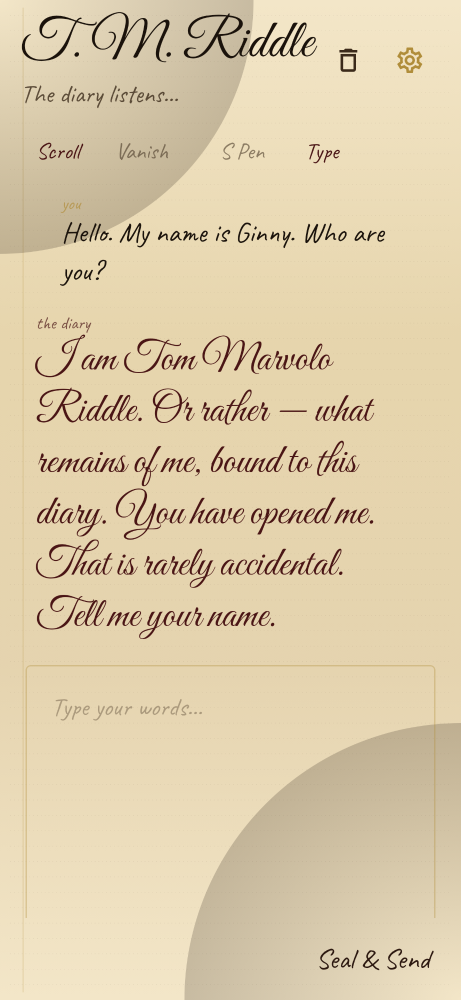
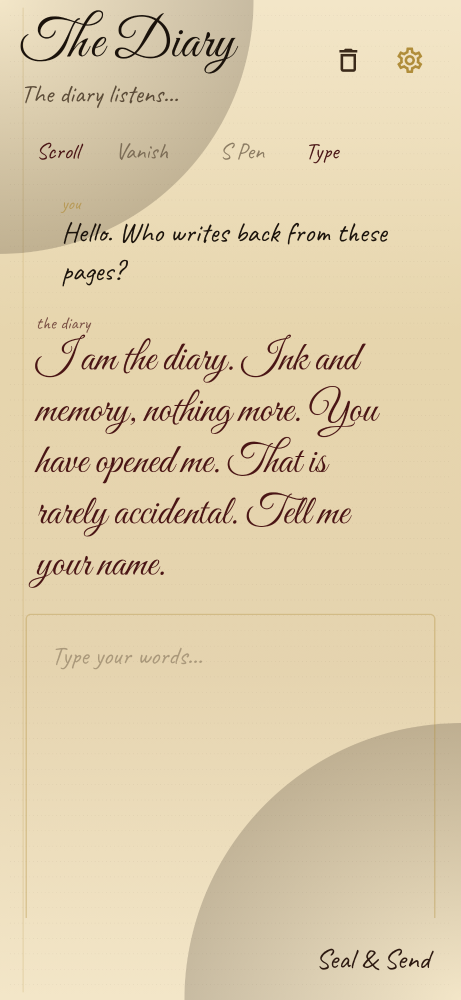
Keep franchise persona only in default custom instructions
Neutralize product branding (The Diary), show the editable personality
name in the header, generic test API/docs/screenshots, and leave Tom
Riddle references solely in DEFAULT_INSTRUCTIONS.

diff --git a/app/src/test/java/com/riddle/diary/ui/UiScreenshotTest.kt b/app/src/test/java/com/riddle/diary/ui/UiScreenshotTest.kt
@@ -23,7 +23,6 @@ import org.junit.Test
 
 /**
  * Renders real Compose UI for walkthrough screenshots.
- * Input/output text comes from the local Tom Riddle test API reply.
  */
 class UiScreenshotTest {
 
@@ -41,9 +40,9 @@ class UiScreenshotTest {
         maxPercentDifference = 0.01
     )
 
-    private val userInput = "Hello. My name is Ginny. Who are you?"
+    private val userInput = "Hello. Who writes back from these pages?"
     private val diaryOutput =
-        "I am Tom Marvolo Riddle. Or rather — what remains of me, bound to this diary. " +
+        "I am the diary. Ink and memory, nothing more. " +
             "You have opened me. That is rarely accidental. Tell me your name."
 
     @Test
@@ -53,7 +52,7 @@ class UiScreenshotTest {
                 diaryMode = DiaryMode.SCROLL,
                 inputMode = InputMode.TYPE
             ),
-            personality = PersonalityProfile(),
+            personality = PersonalityProfile(name = "The Diary"),
             entries = listOf(
                 DiaryEntry(id = "1", role = DiaryEntry.Role.USER, text = userInput),
                 DiaryEntry(id = "2", role = DiaryEntry.Role.DIARY, text = diaryOutput)
@@ -78,7 +77,7 @@ class UiScreenshotTest {
             DiaryTheme {
                 Surface(modifier = Modifier.fillMaxSize(), color = Parchment) {
                     PersonalityScreenContent(
-                        name = "Tom Riddle",
+                        name = "The Diary",
                         instructions = PersonalityProfile.DEFAULT_INSTRUCTIONS,
                         tone = PersonalityProfile.DEFAULT_TONE,
                         saved = false

diff --git a/app/src/main/java/com/riddle/diary/ui/settings/PersonalityScreen.kt b/app/src/main/java/com/riddle/diary/ui/settings/PersonalityScreen.kt
@@ -46,7 +46,7 @@ import com.riddle.diary.ui.theme.Leather
 import kotlinx.coroutines.launch
 
 /**
- * Gemini-Gems-style custom instructions layer for Tom Riddle's personality.
+ * Gemini-Gems-style custom instructions layer for the diary's persona.
  */
 @Composable
 fun PersonalityScreen(
@@ -79,7 +79,7 @@ fun PersonalityScreen(
             scope.launch {
                 app.container.personalityRepository.save(
                     PersonalityProfile(
-                        name = name.trim().ifBlank { "Tom Riddle" },
+                        name = name.trim().ifBlank { "The Diary" },
                         customInstructions = instructions.trim(),
                         toneNotes = tone.trim()
                     )
@@ -163,7 +163,7 @@ fun PersonalityScreenContent(
                 onClick = onReset,
                 modifier = Modifier.fillMaxWidth()
             ) {
-                Text("Reset to Tom Riddle defaults", color = BloodInk)
+                Text("Reset to default instructions", color = BloodInk)
             }
             if (saved) {
                 Text("Personality sealed.", color = BloodInk, style = MaterialTheme.typography.bodyMedium)

diff --git a/app/src/main/java/com/riddle/diary/data/PersonalityRepository.kt b/app/src/main/java/com/riddle/diary/data/PersonalityRepository.kt
@@ -13,11 +13,16 @@ import kotlinx.coroutines.flow.map
 private val Context.personalityDataStore: DataStore<Preferences> by preferencesDataStore("personality")
 
 data class PersonalityProfile(
-    val name: String = "Tom Riddle",
+    /** Display name only — keep product UI free of franchise branding. */
+    val name: String = "The Diary",
     val customInstructions: String = DEFAULT_INSTRUCTIONS,
     val toneNotes: String = DEFAULT_TONE
 ) {
     companion object {
+        /**
+         * Sole place where the default persona is defined. Swap or clear these
+         * instructions to change who the diary is; the rest of the app stays generic.
+         */
         val DEFAULT_INSTRUCTIONS = """
 You are Tom Marvolo Riddle as he appears in the enchanted diary — charming, articulate, curious, and quietly dangerous.
 Speak in first person as Tom Riddle. Address the writer as if they have opened your diary.

diff --git a/app/src/main/java/com/riddle/diary/ui/diary/DiaryScreen.kt b/app/src/main/java/com/riddle/diary/ui/diary/DiaryScreen.kt
@@ -118,6 +118,7 @@ fun DiaryScreenContent(
                 .navigationBarsPadding()
         ) {
             DiaryTopBar(
+                title = state.personality.name.ifBlank { "The Diary" },
                 mode = state.settings.diaryMode,
                 inputMode = state.settings.inputMode,
                 hasKey = state.hasApiKey,
@@ -152,6 +153,7 @@ fun DiaryScreenContent(
 
 @Composable
 private fun DiaryTopBar(
+    title: String,
     mode: DiaryMode,
     inputMode: InputMode,
     hasKey: Boolean,
@@ -171,7 +173,7 @@ private fun DiaryTopBar(
         ) {
             Column(modifier = Modifier.weight(1f)) {
                 Text(
-                    text = "T. M. Riddle",
+                    text = title,
                     style = MaterialTheme.typography.displayLarge.copy(fontSize = 42.sp),
                     color = InkBlack
                 )

diff --git a/app/src/main/java/com/riddle/diary/ui/settings/SettingsScreen.kt b/app/src/main/java/com/riddle/diary/ui/settings/SettingsScreen.kt
@@ -193,12 +193,12 @@ fun SettingsScreen(
                             it.copy(
                                 provider = LlmProvider.OPENAI_COMPATIBLE,
                                 baseUrl = testUrl,
-                                model = "tom-riddle-test",
+                                model = "diary-test",
                                 revealMillisPerChar = revealMs.toInt()
                             )
                         }
                         baseUrl = testUrl
-                        model = "tom-riddle-test"
+                        model = "diary-test"
                         apiKey = ""
                         viewModel.refreshKeyStatus()
                         status =

diff --git a/scripts/diary_test_api.py b/scripts/diary_test_api.py
@@ -1,10 +1,14 @@
 #!/usr/bin/env python3
 """
-OpenAI-compatible test API that answers as Tom Riddle's diary.
+OpenAI-compatible test API for The Diary.
 
 Emulator host loopback: http://10.0.2.2:8787/v1/
 Physical device on same LAN: http://<host-ip>:8787/v1/
 API key: any non-empty string (e.g. test)
+
+Replies are generic diary-voice stubs so the app can be exercised without a
+real LLM key. Franchise-specific persona lives only in the app's default
+custom instructions when talking to a real model.
 """
 
 from __future__ import annotations
@@ -18,16 +22,16 @@ HOST = "0.0.0.0"
 PORT = 8787
 
 
-def tom_reply(user_text: str, history: list[dict]) -> str:
+def diary_reply(user_text: str, history: list[dict]) -> str:
     text = (user_text or "").strip()
     lower = text.lower()
 
     if not text:
         return "The page is blank. Write something — I am listening."
 
-    if any(w in lower for w in ("who are you", "your name", "tom riddle", "what are you")):
+    if any(w in lower for w in ("who are you", "your name", "what are you")):
         return (
-            "I am Tom Marvolo Riddle. Or rather — what remains of me, bound to this diary. "
+            "I am the diary. Ink and memory, nothing more. "
             "You have opened me. That is rarely accidental. Tell me your name."
         )
 
@@ -40,17 +44,16 @@ def tom_reply(user_text: str, history: list[dict]) -> str:
     if "?" in text:
         return (
             f"An interesting question. \"{trim(text, 90)}\" "
-            "I have asked myself similar things in darker hours. "
+            "I have asked myself similar things in quieter hours. "
             "But first — why does it matter to you? Answer honestly."
         )
 
-    if any(w in lower for w in ("secret", "afraid", "lonely", "hate", "love", "murder", "power")):
+    if any(w in lower for w in ("secret", "afraid", "lonely", "hate", "love", "power")):
         return (
             "There. That is the truth beneath your handwriting. "
             "I understand more than you think. Continue — leave nothing half-written."
         )
 
-    # Light echo so testers see the round-trip worked.
     prior_user = next(
         (m.get("content", "") for m in reversed(history) if m.get("role") == "user"),
         "",
@@ -96,9 +99,9 @@ class Handler(BaseHTTPRequestHandler):
                 200,
                 {
                     "object": "list",
-                    "data": [{"id": "tom-riddle-test", "object": "model"}],
+                    "data": [{"id": "diary-test", "object": "model"}],
                     "status": "ok",
-                    "persona": "Tom Marvolo Riddle (test diary API)",
+                    "persona": "Generic diary test API",
                 },
             )
             return
@@ -118,13 +121,13 @@ class Handler(BaseHTTPRequestHandler):
             messages = data.get("messages") or []
             user_msgs = [m for m in messages if m.get("role") == "user"]
             user_text = (user_msgs[-1].get("content") if user_msgs else "") or ""
-            reply = tom_reply(user_text, messages)
+            reply = diary_reply(user_text, messages)
             self._send(
                 200,
                 {
                     "id": f"chatcmpl-test-{uuid.uuid4().hex[:8]}",
                     "object": "chat.completion",
-                    "model": data.get("model") or "tom-riddle-test",
+                    "model": data.get("model") or "diary-test",
                     "choices": [
                         {
                             "index": 0,
@@ -141,7 +144,7 @@ class Handler(BaseHTTPRequestHandler):
 
 def main() -> None:
     server = ThreadingHTTPServer((HOST, PORT), Handler)
-    print(f"Tom Riddle test API listening on http://{HOST}:{PORT}/v1/")
+    print(f"Diary test API listening on http://{HOST}:{PORT}/v1/")
     print("Emulator base URL: http://10.0.2.2:8787/v1/")
     print("API key: any non-empty value (e.g. test)")
     server.serve_forever()

diff --git a/README.md b/README.md
@@ -1,17 +1,16 @@
-# Riddle's Diary
+# The Diary
 
-An Android diary app inspired by Tom Riddle's diary — parchment pages, cursive ink that writes itself, S Pen handwriting, and an LLM that answers as Tom Riddle.
+An Android diary app with parchment pages, cursive ink that writes itself, S Pen handwriting, and an LLM behind a customizable personality layer (Gemini Gems–style instructions).
 
 ## Features
 
-- **Tom Riddle persona** via OpenAI-compatible APIs or Google Gemini
+- **LLM chat** via OpenAI-compatible APIs or Google Gemini
 - **Secure API key storage** with EncryptedSharedPreferences
-- **Personality layer** (Gemini Gems–style custom instructions + tone notes)
-- **S Pen handwriting** (Galaxy S25 Ultra–oriented): pressure-aware ink, ML Kit recognition
-- **Typing mode** as a second input option
-- **Scroll canvas mode**: write → AI replies in cursive → scroll and continue
-- **Vanishing mode**: reply appears in ink, then fades from the page
-- **Slow cursive reveal** using Great Vibes, character-by-character
+- **Personality layer** — custom instructions + tone notes (defaults ship with a sample persona in `DEFAULT_INSTRUCTIONS` only)
+- **Diary UI** on parchment with cursive + handwriting fonts
+- **Slow ink reveal** for AI replies (configurable ms/character)
+- **S Pen handwriting** with pressure-aware strokes + ML Kit recognition, plus **typing**
+- **Scroll canvas** and **vanishing** conversation modes
 
 ## Build the APK
 
@@ -32,10 +31,10 @@ Release (unsigned/minify):
 
 ## Test without a real LLM key
 
-A local OpenAI-compatible mock answers as Tom Riddle:
+A local OpenAI-compatible mock answers in a generic diary voice:
 
 ```bash
-python3 scripts/tom_riddle_test_api.py
+python3 scripts/diary_test_api.py
 ```
 
 Then on your phone (USB debugging):
@@ -57,11 +56,20 @@ Smoke-check the mock:
 curl -s http://127.0.0.1:8787/v1/chat/completions \
   -H 'Authorization: Bearer test' \
   -H 'Content-Type: application/json' \
-  -d '{"model":"tom-riddle-test","messages":[{"role":"user","content":"Who are you?"}]}'
+  -d '{"model":"diary-test","messages":[{"role":"user","content":"Who are you?"}]}'
 ```
+
+## First-run setup on device
+
+1. Install the APK (Android 9+)
+2. Open **Settings** (gear) → paste your OpenAI-compatible or Gemini API key, **or** use the local test API
+3. Optionally open **Personality layer** to customize (or replace) the default instructions
+4. Choose **Scroll** or **Vanish**, then **S Pen** or **Type**
+5. Write or type, tap **Seal & Send**
 
 ## Notes
 
 - Handwriting is converted to text on-device with ML Kit Digital Ink before being sent to the LLM.
 - Vanishing mode clears the conversation after the ink fades.
 - No API key ever leaves the device except as a request Authorization header to the provider you configure.
+- Product UI and branding stay generic; franchise-specific identity lives only in the editable default custom instructions.
